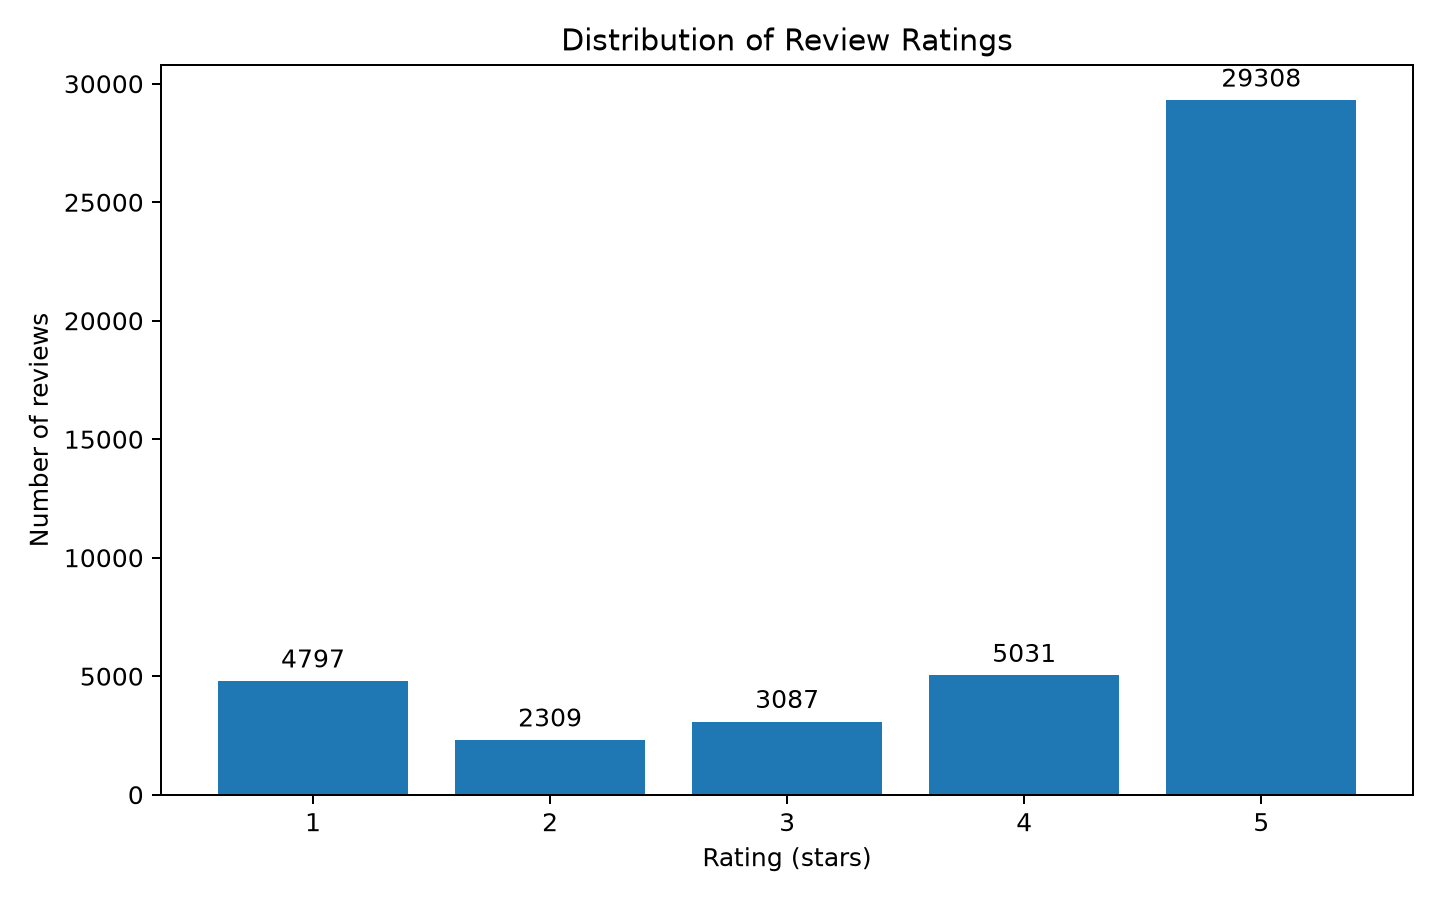
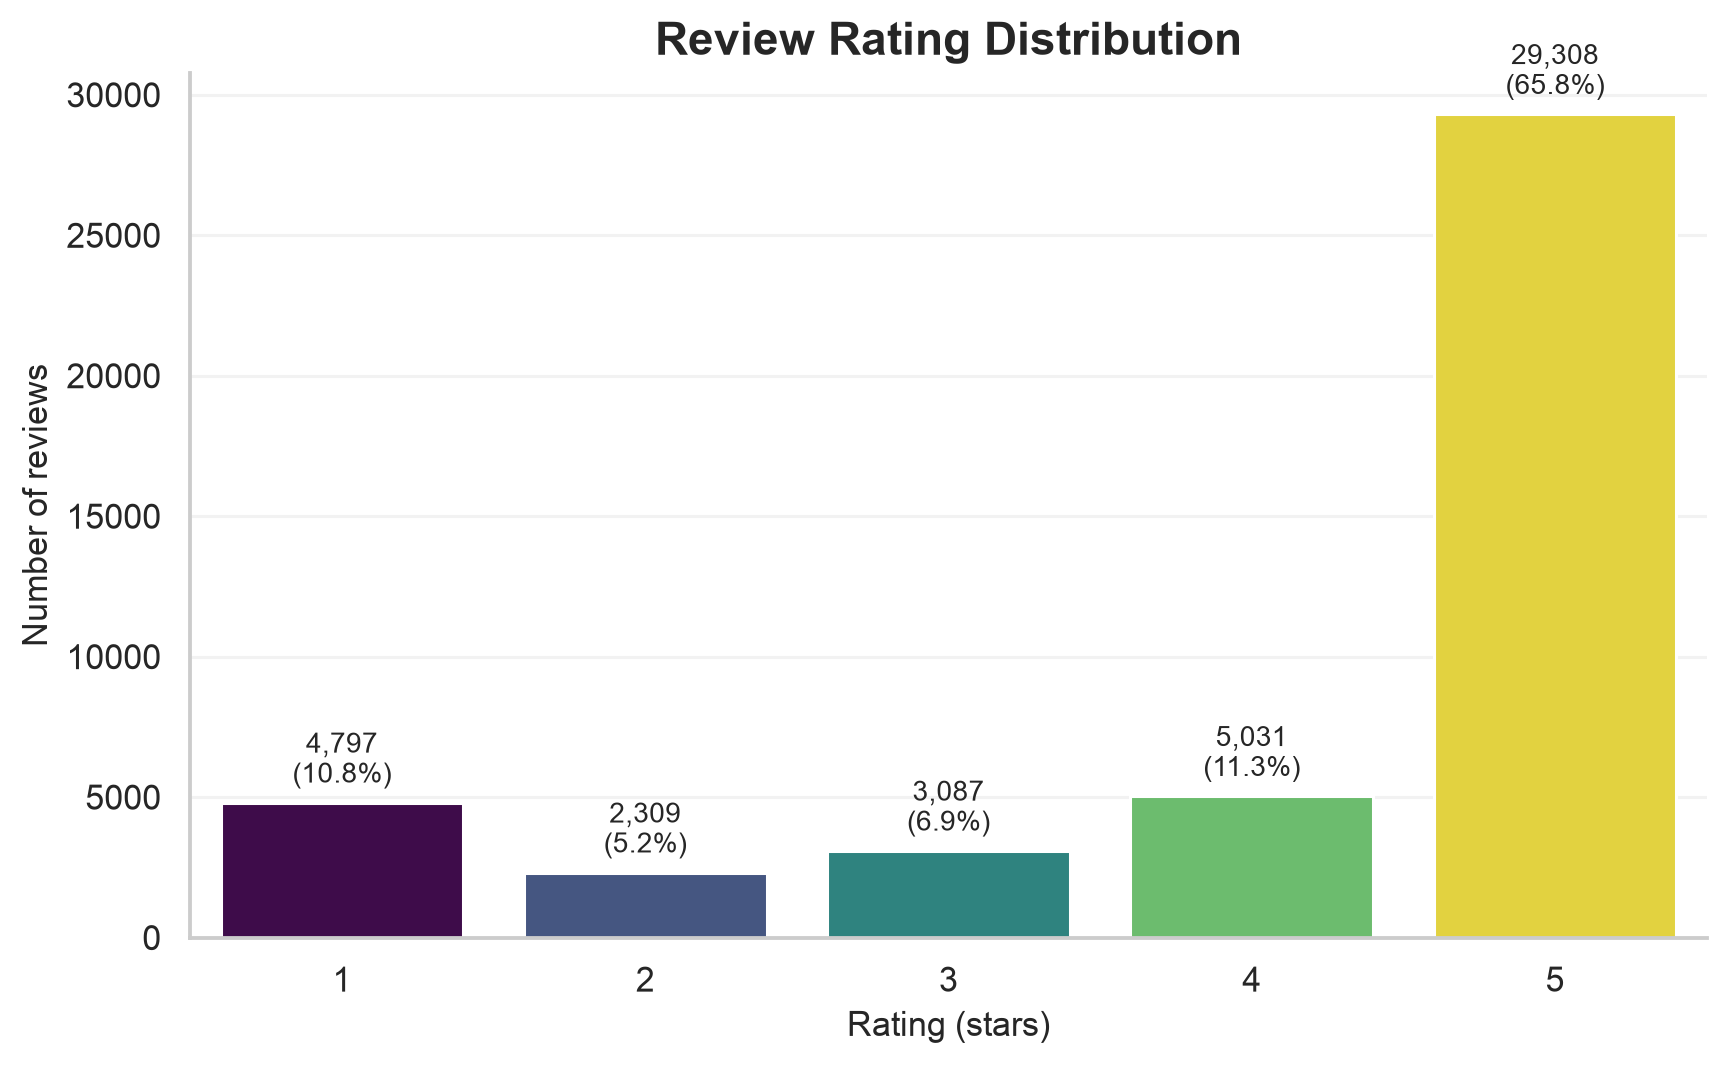
Polish visual analysis and document results

Changed region(s): [[0.0, 0.0311, 1.0, 0.9956], [0.375, 0.0, 0.7188, 0.0622]]

diff --git a/src/visualize_results.py b/src/visualize_results.py
@@ -1,85 +1,187 @@
+"""Create polished portfolio visualizations."""
+
 from pathlib import Path
 
 import matplotlib
 matplotlib.use("Agg")
+
 import matplotlib.pyplot as plt
 import pandas as pd
+import seaborn as sns
+
 
 ROOT = Path(__file__).resolve().parents[1]
 DATA = ROOT / "data" / "processed"
 OUT = ROOT / "reports" / "figures"
 
 
-def main():
-    OUT.mkdir(parents=True, exist_ok=True)
+def setup_chart():
+    sns.set_theme(
+        style="whitegrid",
+        context="notebook",
+        palette="viridis",
+        font_scale=1.0,
+    )
+    plt.rcParams["figure.dpi"] = 120
+    plt.rcParams["savefig.dpi"] = 220
+    plt.rcParams["savefig.bbox"] = "tight"
+    plt.rcParams["axes.titleweight"] = "bold"
+    plt.rcParams["axes.titlesize"] = 15
+    plt.rcParams["axes.labelsize"] = 11
 
-    # 1. Distribution of review ratings
-    reviews = pd.read_csv(DATA / "reviews_clean.csv")
-    ratings = reviews["rating"].value_counts().reindex(
-        [1, 2, 3, 4, 5], fill_value=0
-    ).sort_index()
 
-    fig, ax = plt.subplots(figsize=(8, 5))
-    bars = ax.bar(ratings.index.astype(str), ratings.values)
-    ax.bar_label(bars, padding=3)
-    ax.set_title("Distribution of Review Ratings")
-    ax.set_xlabel("Rating (stars)")
-    ax.set_ylabel("Number of reviews")
-    fig.tight_layout()
-    fig.savefig(OUT / "rating_distribution.png", dpi=180)
+def save_chart(fig, filename):
+    fig.savefig(OUT / filename, facecolor="white")
     plt.close(fig)
 
-    # 2. Monthly review activity in the collected sample
+
+def plot_rating_distribution():
+    reviews = pd.read_csv(DATA / "reviews_clean.csv")
+    reviews["rating"] = pd.to_numeric(
+        reviews["rating"], errors="coerce"
+    )
+    reviews = reviews.dropna(subset=["rating"])
+    reviews["rating"] = reviews["rating"].astype(int)
+
+    order = [1, 2, 3, 4, 5]
+    fig, ax = plt.subplots(figsize=(8, 5))
+
+    sns.countplot(
+        data=reviews,
+        x="rating",
+        order=order,
+        hue="rating",
+        palette="viridis",
+        legend=False,
+        ax=ax,
+    )
+
+    total = len(reviews)
+    for bar in ax.patches:
+        count = bar.get_height()
+        if count > 0:
+            ax.annotate(
+                f"{count:,.0f}\n({count / total:.1%})",
+                (bar.get_x() + bar.get_width() / 2, count),
+                ha="center",
+                va="bottom",
+                fontsize=9,
+                xytext=(0, 4),
+                textcoords="offset points",
+            )
+
+    ax.set(
+        title="Review Rating Distribution",
+        xlabel="Rating (stars)",
+        ylabel="Number of reviews",
+    )
+    ax.grid(axis="x", visible=False)
+    ax.grid(axis="y", alpha=0.25)
+    sns.despine(ax=ax)
+    fig.tight_layout()
+    save_chart(fig, "rating_distribution.png")
+
+
+def plot_monthly_review_activity():
     monthly = pd.read_csv(DATA / "monthly_overview.csv")
     monthly["review_month"] = pd.to_datetime(
         monthly["review_month"], format="%Y-%m", errors="coerce"
     )
-    monthly = monthly.dropna(subset=["review_month"])
-    monthly = monthly.sort_values("review_month")
-
-    fig, ax = plt.subplots(figsize=(10, 5))
-    ax.plot(
-        monthly["review_month"],
-        monthly["review_count"],
-        marker=".",
-        linewidth=1,
+    monthly["review_count"] = pd.to_numeric(
+        monthly["review_count"], errors="coerce"
     )
-    ax.set_title("Monthly Review Counts in the Collected Sample")
-    ax.set_xlabel("Month")
-    ax.set_ylabel("Observed reviews")
+    monthly = monthly.dropna(
+        subset=["review_month", "review_count"]
+    ).sort_values("review_month")
+
+    fig, ax = plt.subplots(figsize=(11, 5))
+
+    sns.lineplot(
+        data=monthly,
+        x="review_month",
+        y="review_count",
+        color=sns.color_palette("viridis", 6)[4],
+        linewidth=1.8,
+        ax=ax,
+    )
+
+    ax.set(
+        title="Monthly Review Activity in the Collected Sample",
+        xlabel="Month",
+        ylabel="Observed reviews",
+    )
     ax.text(
-        0.01, 0.97,
-        "Sample only — not total marketplace demand",
+        0.01,
+        0.97,
+        "Sampled records only — not total marketplace demand",
         transform=ax.transAxes,
         va="top",
+        fontsize=9,
+        color="dimgray",
     )
+    ax.grid(axis="y", alpha=0.25)
+    ax.grid(axis="x", visible=False)
+    sns.despine(ax=ax)
     fig.tight_layout()
-    fig.savefig(OUT / "monthly_review_activity.png", dpi=180)
-    plt.close(fig)
+    save_chart(fig, "monthly_review_activity.png")
 
-    # 3. Top 10 products by confidence-adjusted score
+
+def plot_top_products():
     ranking = pd.read_csv(DATA / "product_ranking.csv")
-    top = ranking.nsmallest(10, "rank").sort_values(
-        "confidence_adjusted_score"
+    ranking["rank"] = pd.to_numeric(
+        ranking["rank"], errors="coerce"
     )
+    ranking = ranking.dropna(subset=["rank"])
+    top = ranking.nsmallest(10, "rank").copy()
+    top = top.sort_values("confidence_adjusted_score")
 
     fig, ax = plt.subplots(figsize=(10, 6))
-    ax.barh(
-        top["parent_asin"].astype(str),
-        top["confidence_adjusted_score"],
-    )
-    ax.set_xlim(0, 5)
-    ax.set_title("Top 10 Products by Confidence-Adjusted Score")
-    ax.set_xlabel("Adjusted score (1–5)")
-    ax.set_ylabel("Product ID")
-    fig.tight_layout()
-    fig.savefig(OUT / "top_products_ranking.png", dpi=180)
-    plt.close(fig)
 
-    print("Charts saved to:", OUT)
-    print("1. rating_distribution.png")
-    print("2. monthly_review_activity.png")
-    print("3. top_products_ranking.png")
+    sns.barplot(
+        data=top,
+        x="confidence_adjusted_score",
+        y="parent_asin",
+        hue="confidence_adjusted_score",
+        palette="viridis",
+        legend=False,
+        ax=ax,
+    )
+
+    for bar in ax.patches:
+        width = bar.get_width()
+        ax.annotate(
+            f"{width:.3f}",
+            (width, bar.get_y() + bar.get_height() / 2),
+            xytext=(5, 0),
+            textcoords="offset points",
+            va="center",
+            fontsize=9,
+        )
+
+    ax.set(
+        title="Top 10 Products by Confidence-Adjusted Score",
+        xlabel="Adjusted score (1–5)",
+        ylabel="Product ID",
+    )
+    ax.set_xlim(0, 5.3)
+    ax.grid(axis="x", alpha=0.25)
+    ax.grid(axis="y", visible=False)
+    sns.despine(ax=ax)
+    fig.tight_layout()
+    save_chart(fig, "top_products_ranking.png")
+
+
+def main():
+    OUT.mkdir(parents=True, exist_ok=True)
+    setup_chart()
+
+    plot_rating_distribution()
+    plot_monthly_review_activity()
+    plot_top_products()
+
+    print(f"Charts saved to: {OUT}")
+    for path in sorted(OUT.glob("*.png")):
+        print(f"- {path.name}")
 
 
 if __name__ == "__main__":

diff --git a/README.md b/README.md
@@ -283,3 +283,25 @@ The pipeline expects the source samples to be available locally. Generated files
 This project demonstrates an end-to-end exploratory workflow: data sampling, data preparation, statistical ranking, trend detection, explainable quality checks, automated reporting, and testing.
 
 Its focus is on reproducibility, transparent assumptions, and careful interpretation of imperfect data.
+
+## Visual Results
+
+### 1. Review Rating Distribution
+
+The distribution of review ratings provides a quick overview of the feedback captured in the collected sample.
+
+![Distribution of review ratings](reports/figures/rating_distribution.png)
+
+### 2. Monthly Review Activity
+
+Monthly review counts show how the collected sample is distributed over time.
+
+**Limitation:** Reviews were collected using bounded byte-range sampling rather than random sampling. Monthly counts should not be interpreted as representative marketplace activity, sales, or demand.
+
+![Monthly review activity](reports/figures/monthly_review_activity.png)
+
+### 3. Top-Ranked Products
+
+Products are ranked using a confidence-adjusted score that combines the average product rating with the overall sample mean. This reduces the influence of high ratings based on very few reviews.
+
+![Top 10 products by adjusted score](reports/figures/top_products_ranking.png)
